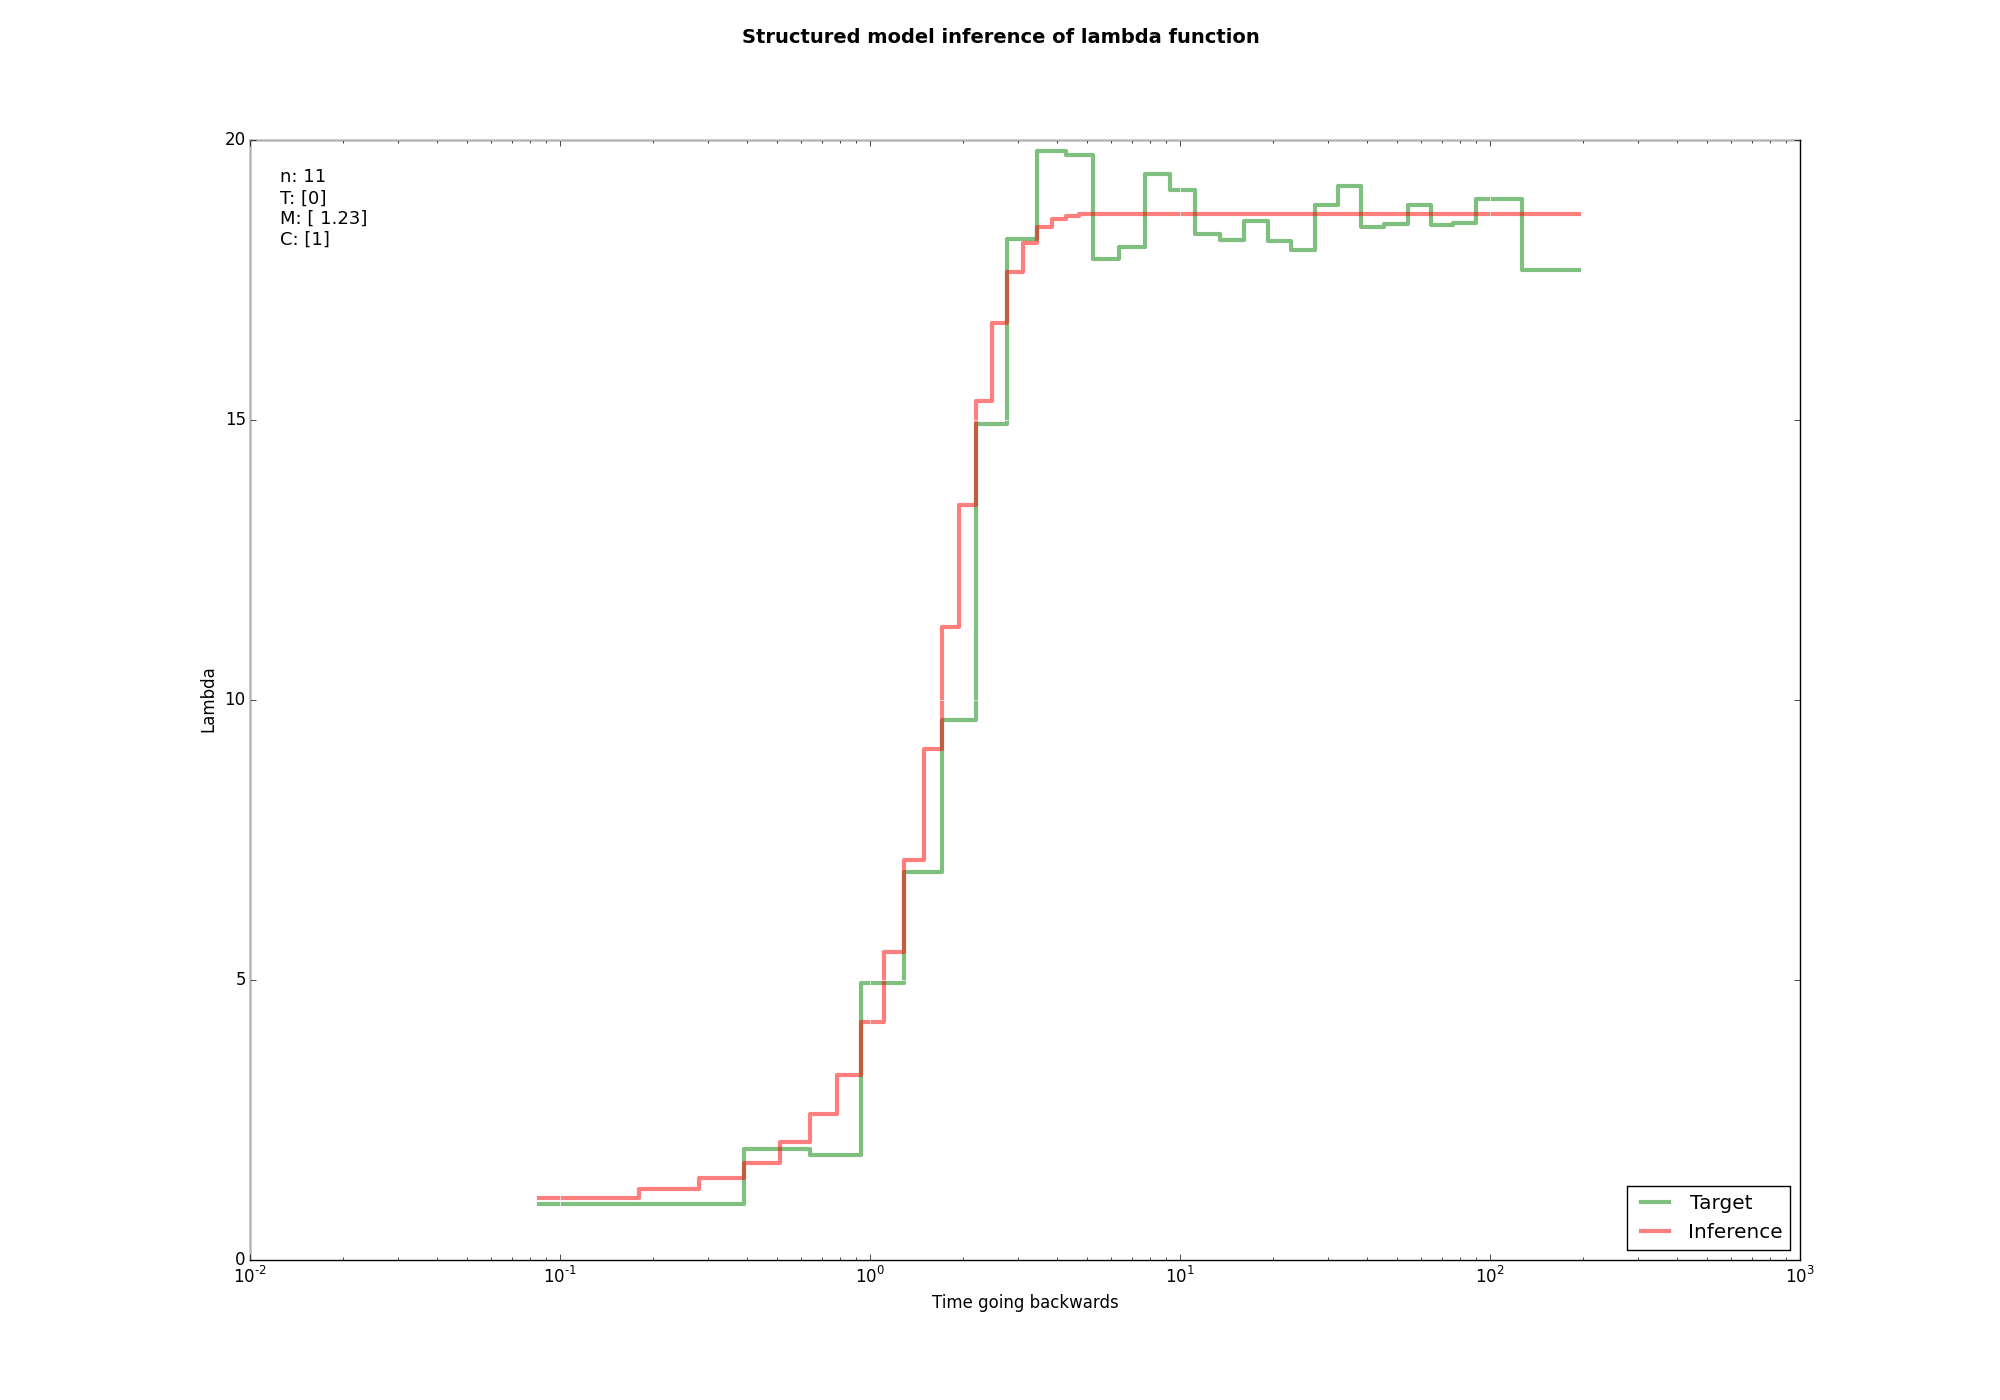
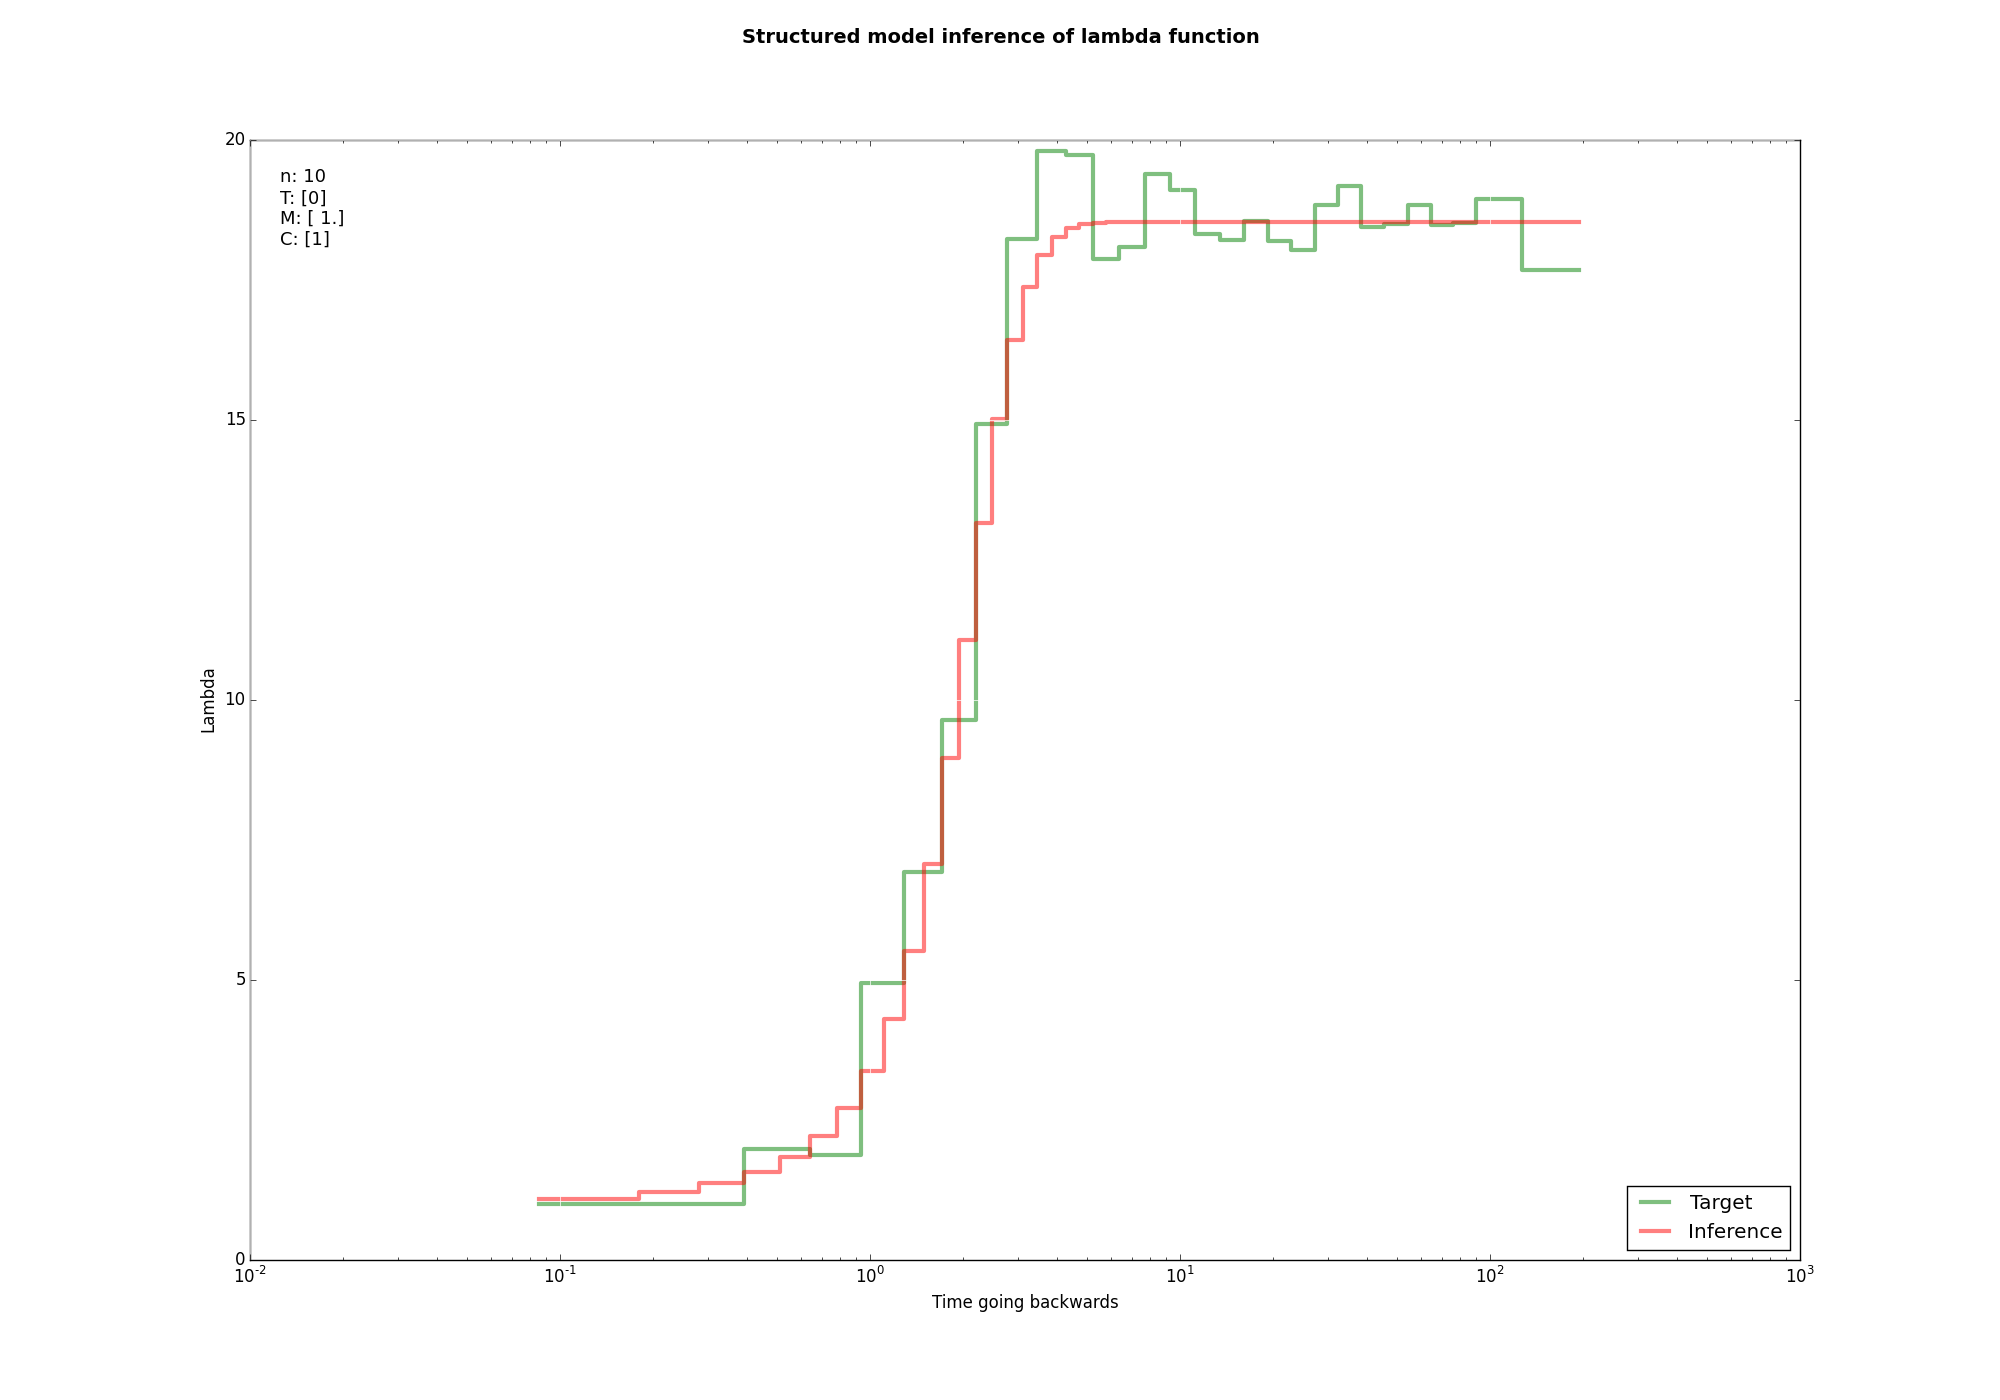
- Possibility to continue iterating - Setting the -c parameter to ``True`` should now work properly

diff --git a/lib/inference/genalg.py b/lib/inference/genalg.py
@@ -29,7 +29,8 @@ class Individual:
         self.M = [rand.uniform(0, 30) for _ in range(switches + 1)]
         # Population sizes
         if sizeChange is True:
-            self.C = [rand.uniform(0, maxSize) for _ in range(switches + 1)]
+            self.C = [rand.uniform(0, init['maxSize'])
+                      for _ in range(switches + 1)]
         else:
             self.C = [1 for _ in range(switches + 1)]
         # Create model
@@ -194,6 +195,7 @@ class Population:
     def __init__(self, Model, times, lambdas, switches, sizeChange,
                  repetitions, method='integral'):
         ''' List of models for a given number of islands. '''
+        print ("Don't worry, I'm generating the initial population...")
         # Timeframe to study
         self.times = np.array(times)
         # PSMC distribution to fit
@@ -212,9 +214,15 @@ class Population:
         # Evaluate them
         for i in range(repetitions):
             self.evaluate(i)
-        # Store the best model
-        self.best = np.random.choice(self.individuals[0])
-        self.best.fitness = np.inf
+        # Repetition bests
+        self.repBest = []
+        for repetition in range(repetitions):
+            individual = np.random.choice(self.individuals[repetition])
+            individual.fitness = np.inf
+            self.repBest.append(individual)
+        # Overall best
+        self.overallBest = np.random.choice(self.individuals[0])
+        self.overallBest.fitness = np.inf
 
     def sort(self, index):
         ''' Sort in ascending order (smallest to highest fitness). '''
@@ -246,12 +254,13 @@ class Population:
 
     def enhance(self, generations):
         ''' Mutate the population. '''
-        for i in range(len(self.individuals)):
+        for repetition in range(len(self.individuals)):
+            print ('###### Repetition {} ######'.format(repetition+1))
             for g in range(generations):
                 newIndividuals = []
                 for individual in self.tournament(tournament['rounds'],
                                                   tournament['roundSize'],
-                                                  i):
+                                                  repetition):
                     # Create a copy of the individual
                     newIndividuals.append(deepcopy(individual))
                     # Enhance
@@ -260,11 +269,51 @@ class Population:
                         newIndividual.mutate()
                         newIndividuals.append(newIndividual)
                 # Renew to population
-                self.individuals[i] = newIndividuals
+                self.individuals[repetition] = newIndividuals
                 # Reevaluate the new models
-                self.evaluate(i)
+                self.evaluate(repetition)
                 # Check if there is a new best individual
-                if self.individuals[i][0].fitness < self.best.fitness:
-                    self.best = deepcopy(self.individuals[i][0])
-                print ('Repetition {0} - Generation {1} - Best {2}'.format(i+1,
-                       g+1, self.best.fitness))
+                if self.individuals[repetition][0].fitness < self.repBest[repetition].fitness:
+                    self.repBest[repetition] = deepcopy(self.individuals[repetition][0])
+                if self.individuals[repetition][0].fitness < self.overallBest.fitness:
+                    self.overallBest = deepcopy(self.individuals[repetition][0])
+                print ('Rep {0} - Gen {1} - Rep Best {2} - Overall Best {3}'.format(repetition+1,
+                       g+1, self.repBest[repetition].fitness, self.overallBest.fitness))
+            # Ask the user if he wants to continue
+            keepGoing = input('Shall I keep enhancing this repetition? (y/n) ')
+            while keepGoing not in ('y', 'Y', 'n', 'N'):
+                keepGoing = input('Shall I keep enhancing this repetition? (y/n) ')
+            if keepGoing in ('n', 'N'):
+                pass
+            # If he does the user has to say for how many generations (positive integer)
+            else:
+                value = input('For how many generations? (int) ')
+                newGenerations = -1
+                while newGenerations < 0:
+                    try:
+                       newGenerations = int(value)
+                    except ValueError:
+                       value = input('Please insert a positive integer: ')
+                for g in range(generations, generations+newGenerations):
+                    newIndividuals = []
+                    for individual in self.tournament(tournament['rounds'],
+                                                      tournament['roundSize'],
+                                                      repetition):
+                        # Create a copy of the individual
+                        newIndividuals.append(deepcopy(individual))
+                        # Enhance
+                        for _ in range(tournament['offsprings']):
+                            newIndividual = deepcopy(individual)
+                            newIndividual.mutate()
+                            newIndividuals.append(newIndividual)
+                    # Renew to population
+                    self.individuals[repetition] = newIndividuals
+                    # Reevaluate the new models
+                    self.evaluate(repetition)
+                    # Check if there is a new best individual
+                    if self.individuals[repetition][0].fitness < self.repBest[repetition].fitness:
+                        self.repBest[repetition] = deepcopy(self.individuals[repetition][0])
+                    if self.individuals[repetition][0].fitness < self.overallBest.fitness:
+                        self.overallBest = deepcopy(self.individuals[repetition][0])
+                    print ('Rep {0} - Gen {1} - Rep Best {2} - Overall Best {3}'.format(repetition+1,
+                           g+1, self.repBest[repetition].fitness, self.overallBest.fitness))

diff --git a/infer.py b/infer.py
@@ -76,8 +76,8 @@ if parameters.keep is True:
         fileName = '{0}/{1}_{2}_switch'.format(path, file, parameters.switches)
     else:
         fileName = parameters.outfile
-    pop.best.model.save(fileName)
-    plotting.plotModel(pop.best.model, times, lambdas, logScale=True,
+    pop.overallBest.model.save(fileName)
+    plotting.plotModel(pop.overallBest.model, times, lambdas, logScale=True,
                        save='{0}.png'.format(fileName))
 else:
-    plotting.plotModel(pop.best.model, times, lambdas, logScale=True)
+    plotting.plotModel(pop.overallBest.model, times, lambdas, logScale=True)

diff --git a/README.md b/README.md
@@ -72,7 +72,7 @@ The main script is called ``infer.py`` and guesses the parameters for a given PS
 | -v       | Version     | Get the version of the script.                               |            |
 | -n       | Islands     | Maximal number of islands for the first generation.          | 100        |
 | -s       | Switches    | Number of switches for the model.                            | 0          |
-| -c       | Size        | Allow the islands to change size.                            | None       |
+| -c       | Size        | Allow the islands to change size.                            | False      |
 | -r       | Repetitions | Number of times to repeat the process.                       | 1          |
 | -g       | Generations | Number of iterations for each population.                    | 100        |
 | -m       | Method      | Method for evaluating the fits.                              | 'integral' |
@@ -85,6 +85,8 @@ The initial number of islands (``-n``) is not important as the algorithm usually
 - the least squares on the functions which does take into account the abscissa (``'integral'``).
 
 If the keep argument (``-k``) is set to ``True`` then the best model will be saved as a PNG file for the chart and a JSON file for the parameters with default names. You can also use the outfile argument (``-o``) for overriding the name given to the saved files.
+
+At every repetition the console will prompt you if you desire to continue (``y``) or to go to the next repetition (``n``). If you do then it will ask you for how many generations you wish to continue.
 
 ### Manual
 
@@ -104,13 +106,14 @@ The other script called ``manual.py`` is for visualizing a model with user-defin
 - Increasing the generation size can have an impact, the longer the algorithm runs the lower the chance that the algorithm won't improve the model.
 - If the algorithm seems to fail you can try to increase the mutation rate. Often is the case this will enable it to find a better area. However a high mutation rate removes precision from the algorithm.
 - *Trying again* isn't a bad idea when using genetic algorithms.
-- The initial population size can be important, the higher it is and the more of the search space will be explored at first.
-The genetic algorithm uses [tournament selection](https://www.wikiwand.com/en/Tournament_selection) for choosing which individuals will breed new individuals. You can configure the parameters of the tournament and the mutation amplitudes applied to the parameters in the ``lib/inference/genalgOptions.json`` file:
+- The initial population size can be important, the higher it is and the more of the search space will be explored at first
+- The genetic algorithm uses [tournament selection](https://www.wikiwand.com/en/Tournament_selection) for choosing which individuals will breed new individuals. You can configure the parameters of the tournament and the mutation amplitudes applied to the parameters in the ``lib/inference/genalgOptions.json`` file:
 	- ``"rounds"`` is the number of individuals that will breed new individuals.
 	- ``"roundSize"`` is the size of each tournament.
 	- ``"offspring"`` is the quantity of individuals the chosen individuals will breed.
 	There are offspring x rounds number of new individuals. The way the tournament works is that the best out of a random 		sample of individuals is chosen. This means that big tournaments are favorable to strong individuals and small 			tournaments allow weaker individuals to go through (which isn't necessarily a bad thing, 					[simulated annealing](http://www.wikiwand.com/en/Simulated_annealing) does the same thing).
-It also has to be said that including the island size parameter (``-c``) requires the algorithm to run for much more generations because the search space becomes much bigger.
+- It also has to be said that including the island size parameter (``-c``) requires the algorithm to run for much more generations because the search space becomes much bigger.
+- If you think you have a better way of measuring the distance between two curves you can add it to the ``distance.py`` script and modify the ``evaluate()`` procedure in the ``genalg.py`` script.
 
 ## Examples
 
